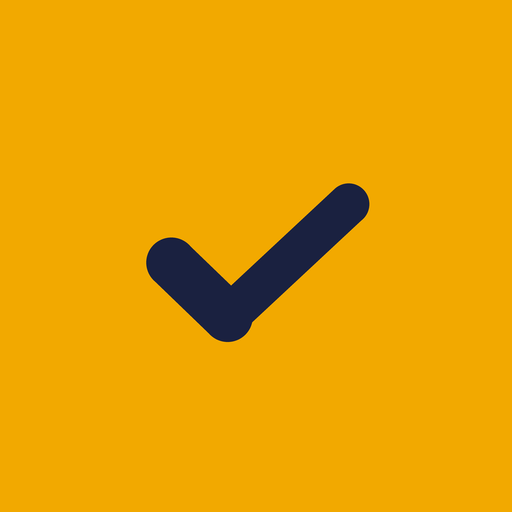
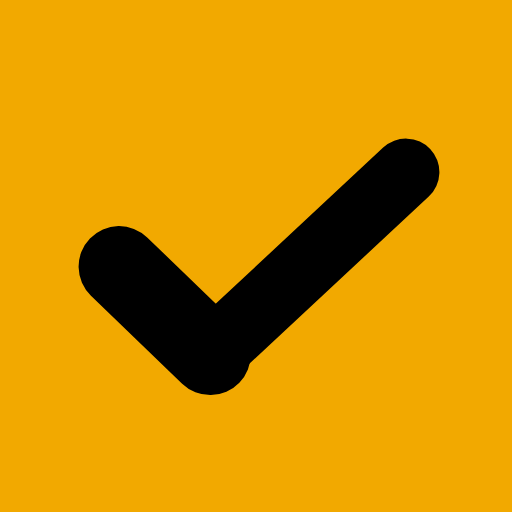
Icona per la Home: spunta nera nitida e un po' più grande
Claude-Session: https://claude.ai/code/session_01FU7mPaR5AxcKJy6D6EgmzH

Changed region(s): [[0.1562, 0.25, 0.875, 0.7812]]

diff --git a/legami/legami-erasable/index.html b/legami/legami-erasable/index.html
@@ -26,7 +26,7 @@
      I file stanno nella cartella principale e in "icone/". -->
 <link rel="icon" href="../../favicon.ico" sizes="32x32">
 <link rel="icon" href="../../favicon.svg" type="image/svg+xml">
-<link rel="apple-touch-icon" href="../../apple-touch-icon.png">
+<link rel="apple-touch-icon" href="../../apple-touch-icon.png?v=2">
 <link rel="manifest" href="../../site.webmanifest">
 <meta property="og:site_name" content="Collection Time">
 <meta property="og:type" content="website">

diff --git a/legami/legami-lampada/index.html b/legami/legami-lampada/index.html
@@ -26,7 +26,7 @@
      I file stanno nella cartella principale e in "icone/". -->
 <link rel="icon" href="../../favicon.ico" sizes="32x32">
 <link rel="icon" href="../../favicon.svg" type="image/svg+xml">
-<link rel="apple-touch-icon" href="../../apple-touch-icon.png">
+<link rel="apple-touch-icon" href="../../apple-touch-icon.png?v=2">
 <link rel="manifest" href="../../site.webmanifest">
 <meta property="og:site_name" content="Collection Time">
 <meta property="og:type" content="website">

diff --git a/legami/legami-righello/index.html b/legami/legami-righello/index.html
@@ -10,7 +10,7 @@
      I file stanno nella cartella principale e in "icone/". -->
 <link rel="icon" href="../../favicon.ico" sizes="32x32">
 <link rel="icon" href="../../favicon.svg" type="image/svg+xml">
-<link rel="apple-touch-icon" href="../../apple-touch-icon.png">
+<link rel="apple-touch-icon" href="../../apple-touch-icon.png?v=2">
 <link rel="manifest" href="../../site.webmanifest">
 <meta property="og:site_name" content="Collection Time">
 <meta property="og:type" content="website">

diff --git a/legami/index.html b/legami/index.html
@@ -10,7 +10,7 @@
      I file stanno nella cartella principale e in "icone/". -->
 <link rel="icon" href="../favicon.ico" sizes="32x32">
 <link rel="icon" href="../favicon.svg" type="image/svg+xml">
-<link rel="apple-touch-icon" href="../apple-touch-icon.png">
+<link rel="apple-touch-icon" href="../apple-touch-icon.png?v=2">
 <link rel="manifest" href="../site.webmanifest">
 <meta property="og:site_name" content="Collection Time">
 <meta property="og:type" content="website">

diff --git a/contatti.html b/contatti.html
@@ -10,7 +10,7 @@
      I file stanno nella cartella principale e in "icone/". -->
 <link rel="icon" href="favicon.ico" sizes="32x32">
 <link rel="icon" href="favicon.svg" type="image/svg+xml">
-<link rel="apple-touch-icon" href="apple-touch-icon.png">
+<link rel="apple-touch-icon" href="apple-touch-icon.png?v=2">
 <link rel="manifest" href="site.webmanifest">
 <meta property="og:site_name" content="Collection Time">
 <meta property="og:type" content="website">

diff --git a/faq.html b/faq.html
@@ -10,7 +10,7 @@
      I file stanno nella cartella principale e in "icone/". -->
 <link rel="icon" href="favicon.ico" sizes="32x32">
 <link rel="icon" href="favicon.svg" type="image/svg+xml">
-<link rel="apple-touch-icon" href="apple-touch-icon.png">
+<link rel="apple-touch-icon" href="apple-touch-icon.png?v=2">
 <link rel="manifest" href="site.webmanifest">
 <meta property="og:site_name" content="Collection Time">
 <meta property="og:type" content="website">

diff --git a/index.html b/index.html
@@ -10,7 +10,7 @@
      I file stanno nella cartella principale e in "icone/". -->
 <link rel="icon" href="favicon.ico" sizes="32x32">
 <link rel="icon" href="favicon.svg" type="image/svg+xml">
-<link rel="apple-touch-icon" href="apple-touch-icon.png">
+<link rel="apple-touch-icon" href="apple-touch-icon.png?v=2">
 <link rel="manifest" href="site.webmanifest">
 <meta property="og:site_name" content="Collection Time">
 <meta property="og:type" content="website">

diff --git a/note-legali.html b/note-legali.html
@@ -10,7 +10,7 @@
      I file stanno nella cartella principale e in "icone/". -->
 <link rel="icon" href="favicon.ico" sizes="32x32">
 <link rel="icon" href="favicon.svg" type="image/svg+xml">
-<link rel="apple-touch-icon" href="apple-touch-icon.png">
+<link rel="apple-touch-icon" href="apple-touch-icon.png?v=2">
 <link rel="manifest" href="site.webmanifest">
 <meta property="og:site_name" content="Collection Time">
 <meta property="og:type" content="website">

diff --git a/privacy.html b/privacy.html
@@ -10,7 +10,7 @@
      I file stanno nella cartella principale e in "icone/". -->
 <link rel="icon" href="favicon.ico" sizes="32x32">
 <link rel="icon" href="favicon.svg" type="image/svg+xml">
-<link rel="apple-touch-icon" href="apple-touch-icon.png">
+<link rel="apple-touch-icon" href="apple-touch-icon.png?v=2">
 <link rel="manifest" href="site.webmanifest">
 <meta property="og:site_name" content="Collection Time">
 <meta property="og:type" content="website">

diff --git a/404.html b/404.html
@@ -16,7 +16,7 @@
 <meta name="theme-color" content="#1A2140">
 <link rel="icon" href="/favicon.ico" sizes="32x32">
 <link rel="icon" href="/favicon.svg" type="image/svg+xml">
-<link rel="apple-touch-icon" href="/apple-touch-icon.png">
+<link rel="apple-touch-icon" href="/apple-touch-icon.png?v=2">
 <!-- Stile comune del sito (colori, bande in alto e in basso) -->
 <link rel="stylesheet" href="/sito.css?v=9">
 <style>
